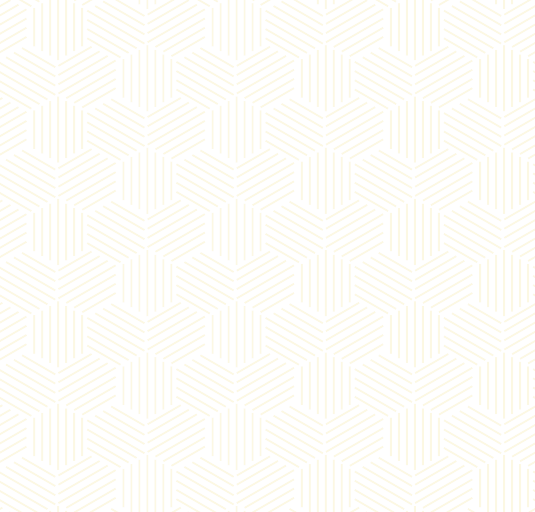
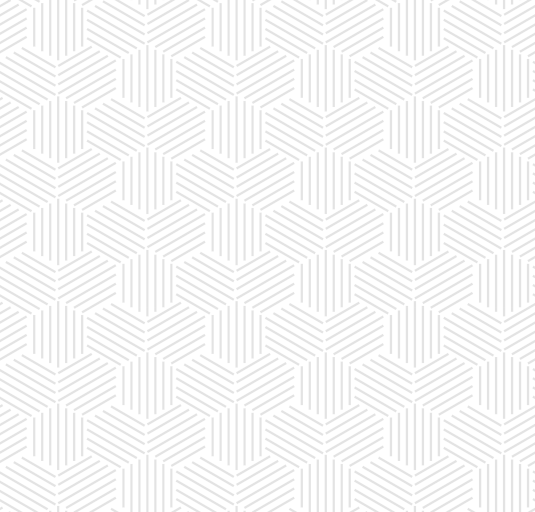
Altered layout and changed BG image, CSS tweaks

Changed region(s): [[0.0, 0.0, 1.0, 1.0]]

diff --git a/css/default.css b/css/default.css
@@ -11,7 +11,13 @@ html, body {
 }
 
 .content {
+    margin: auto;
     padding-bottom: 10%;
+    min-height: 100vh;
+    width: 80%;
+    max-width: 90%;
+    background-color: rgba(255,255,255,0.75);
+    border: 1px solid lightgray;
 }
 
 .goof {

diff --git a/css/blog.css b/css/blog.css
@@ -1,5 +1,5 @@
 .blogEntry {
-    width: 60%;
+    width: 90%;
     margin: auto;
 }
 

diff --git a/blog.php b/blog.php
@@ -9,9 +9,8 @@
     </head>
     <body>
         <div class="page">
-            <div class="content">
-                <?php include 'objects/siteHeader.php'; ?>
-                <div class="blogEntry">
+        <?php include 'objects/siteHeader.php'; ?>
+            <div class="content"> <div class="blogEntry">
                     <h1>Coming Online</h1>
                     <h2>September 10 2023</h2>
                     <br><p>You know, making a website is pretty hard. Could you guess? I suppose there's easier options than the one I took. WordPress, site builders, the like. Nope, I went out of my way to get a headless Ubuntu machine and Git some raw files into it. I'm not sure why I'm the way I am, but it feels nice to get everything working - transparently, above all else. That's one thing I don't like, I hate magic tricks, especially in tech.</p>
@@ -21,7 +20,7 @@
                 </div>
             </div>
 
-            <?php include 'objects/siteFooter.php'; ?>
+        <?php include 'objects/siteFooter.php'; ?>
         </div>
 
     </body>

diff --git a/index.php b/index.php
@@ -8,8 +8,9 @@
     </head>
     <body>
         <div class="page">
+        <?php include 'objects/siteHeader.php'; ?>
             <div class="content">
-                <?php include 'objects/siteHeader.php'; ?>
+               
 
                 <h1 class="goof">Yep, I sure am here!</h1>
                 <p style="text-align:center; font-style:italic;">Under heavy construction, obviously, but online nonetheless<br>There's a blog post already if you're interested<br>Ya know<br>Since you're here<br>Hate to be a bad host</br></p>

diff --git a/apps.php b/apps.php
@@ -9,8 +9,9 @@
     </head>
     <body>
         <div class="page">
+        <?php include 'objects/siteHeader.php'; ?>
             <div class="content">
-                <?php include 'objects/siteHeader.php'; ?>
+               
 
                 <p style="font-style: italic; text-align: center;">All apps will open in a new tab</p>
                 <table class="appList">

diff --git a/404.php b/404.php
@@ -8,8 +8,9 @@
     </head>
     <body>
         <div class="page">
+        <?php include 'objects/siteHeader.php'; ?>
             <div class="content">
-                <?php include 'objects/siteHeader.php'; ?>
+               
 
                 <h1>Error 404: The requested page doesn't exist.</h1>
             </div>

diff --git a/aboutme.php b/aboutme.php
@@ -8,8 +8,9 @@
     </head>
     <body>
         <div class="page">
+        <?php include 'objects/siteHeader.php'; ?>
             <div class="content">
-                <?php include 'objects/siteHeader.php'; ?>
+               
                 I'm cool :) like really cool wow fr
             </div>
 

diff --git a/aboutsite.php b/aboutsite.php
@@ -8,8 +8,9 @@
     </head>
     <body>
         <div class="page">
+        <?php include 'objects/siteHeader.php'; ?>
             <div class="content">
-                <?php include 'objects/siteHeader.php'; ?>
+               
                 The site is cool :)
             </div>
 

diff --git a/objects/templates/page.php b/objects/templates/page.php
@@ -8,8 +8,9 @@
     </head>
     <body>
         <div class="page">
+        <?php include 'objects/siteHeader.php'; ?>
             <div class="content">
-                <?php include 'objects/siteHeader.php'; ?>
+               
                 
             </div>
 
